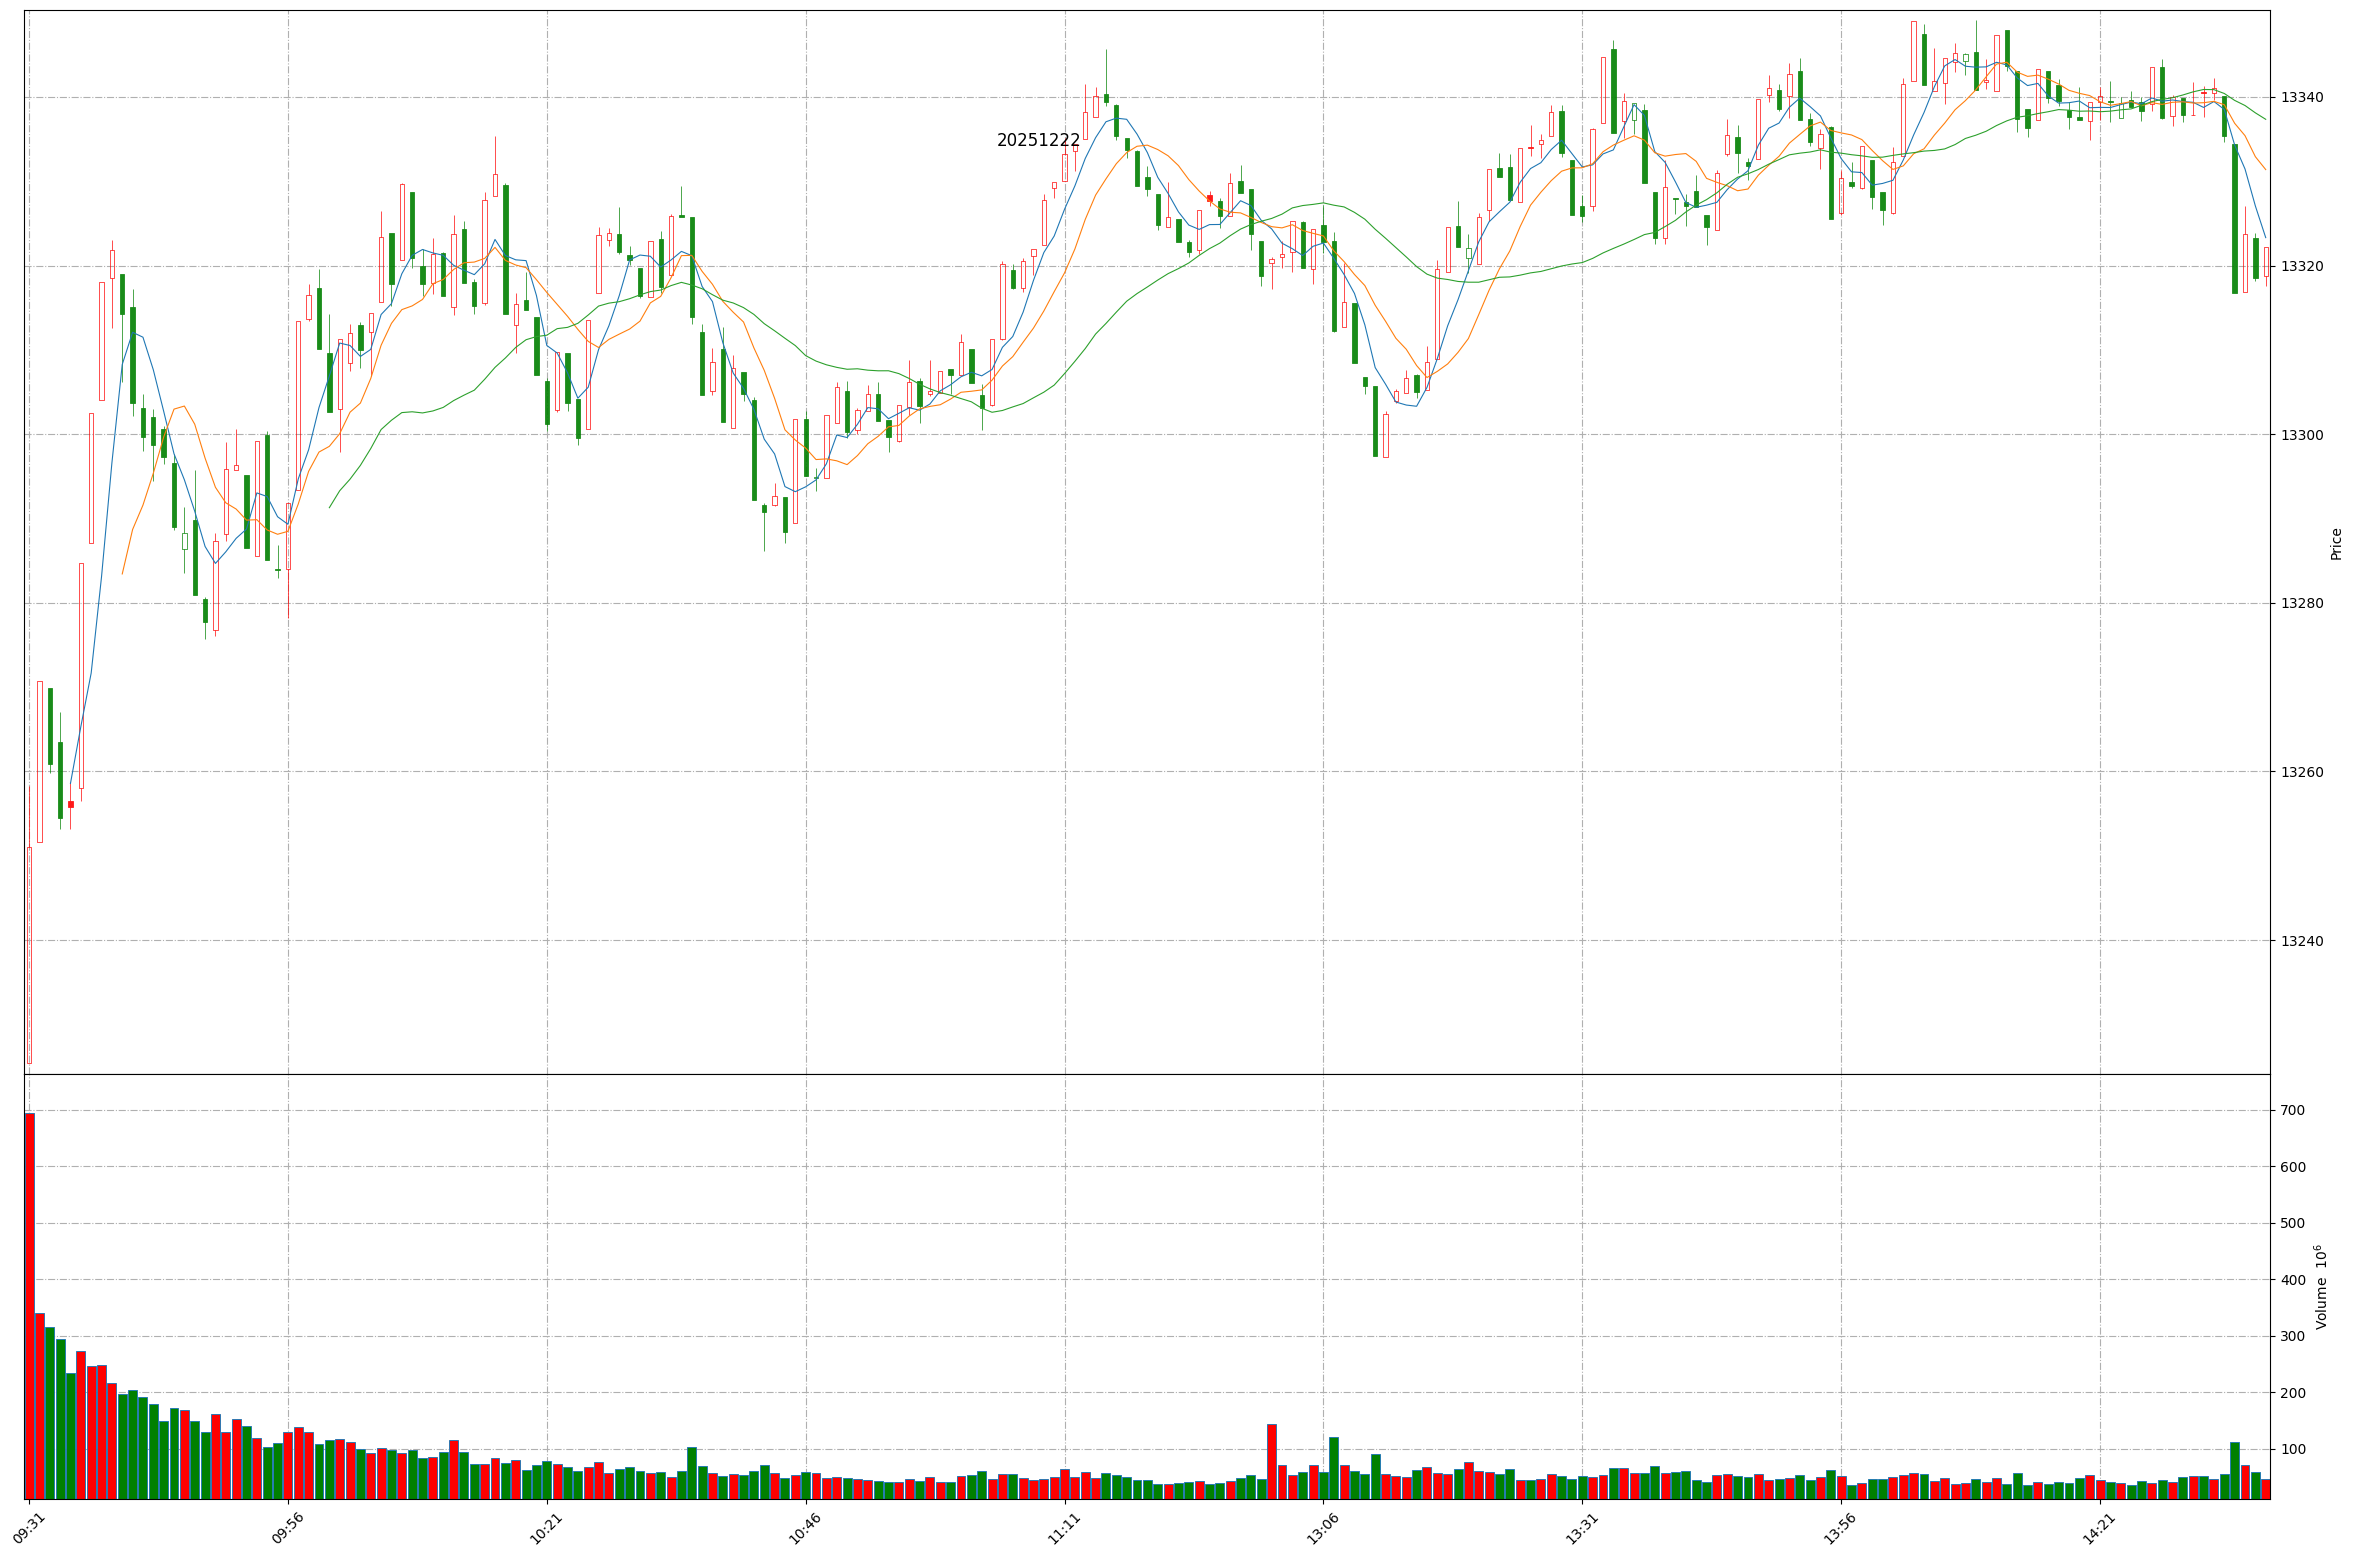
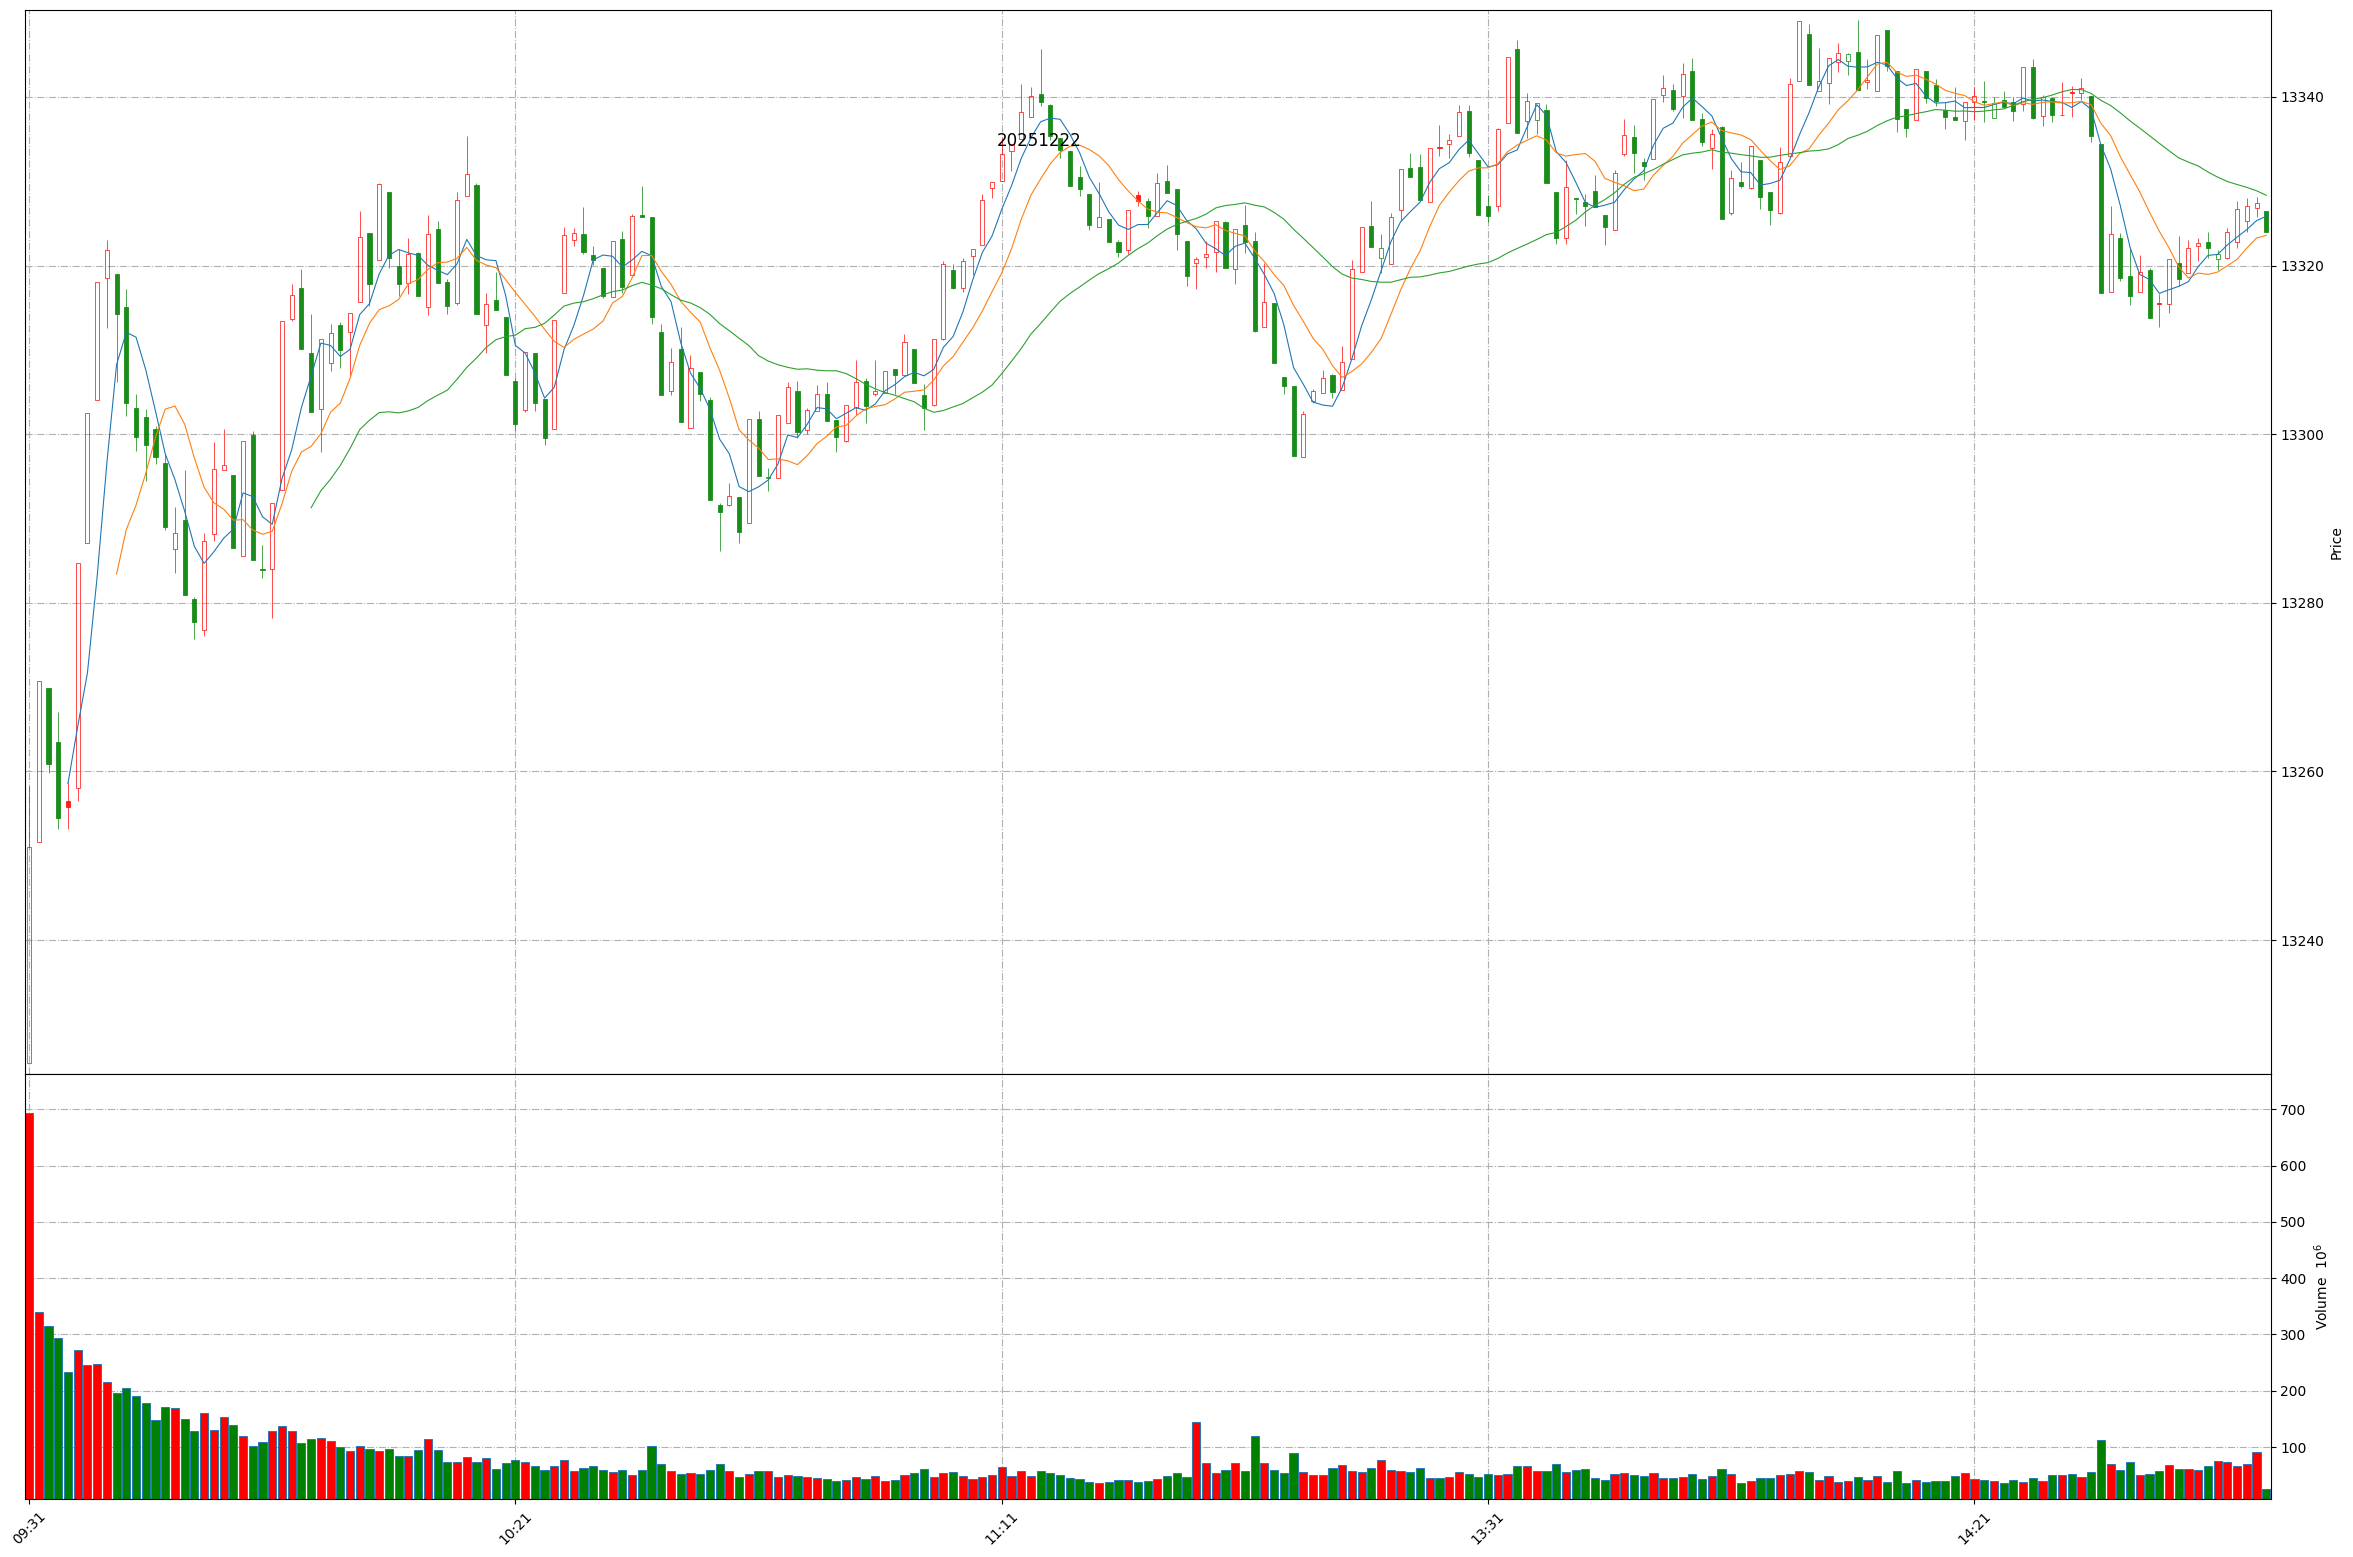
Github action update at 2025-12-22 14:50:29.

Changed region(s): [[0.031, 0.0308, 0.9618, 0.4316], [0.0, 0.8324, 0.9618, 0.9865], [0.0, 0.4624, 0.031, 0.5241]]

diff --git a/README.md b/README.md
@@ -1,11 +1,11 @@
 
 # Daily-A-share-market-quotes 每日 A 股指数（5min 更新）- 20251222
 
-### 上证指数 20251222 14:36
+### 上证指数 20251222 14:50
 ![](./fig/2025/12/20251222-sh000001.png)
 
-### 深证成指 20251222 14:36
+### 深证成指 20251222 14:50
 ![](./fig/2025/12/20251222-sz399001.png)
 
-### 北证50 20251222 14:36
+### 北证50 20251222 14:50
 ![](./fig/2025/12/20251222-bj899050.png)
